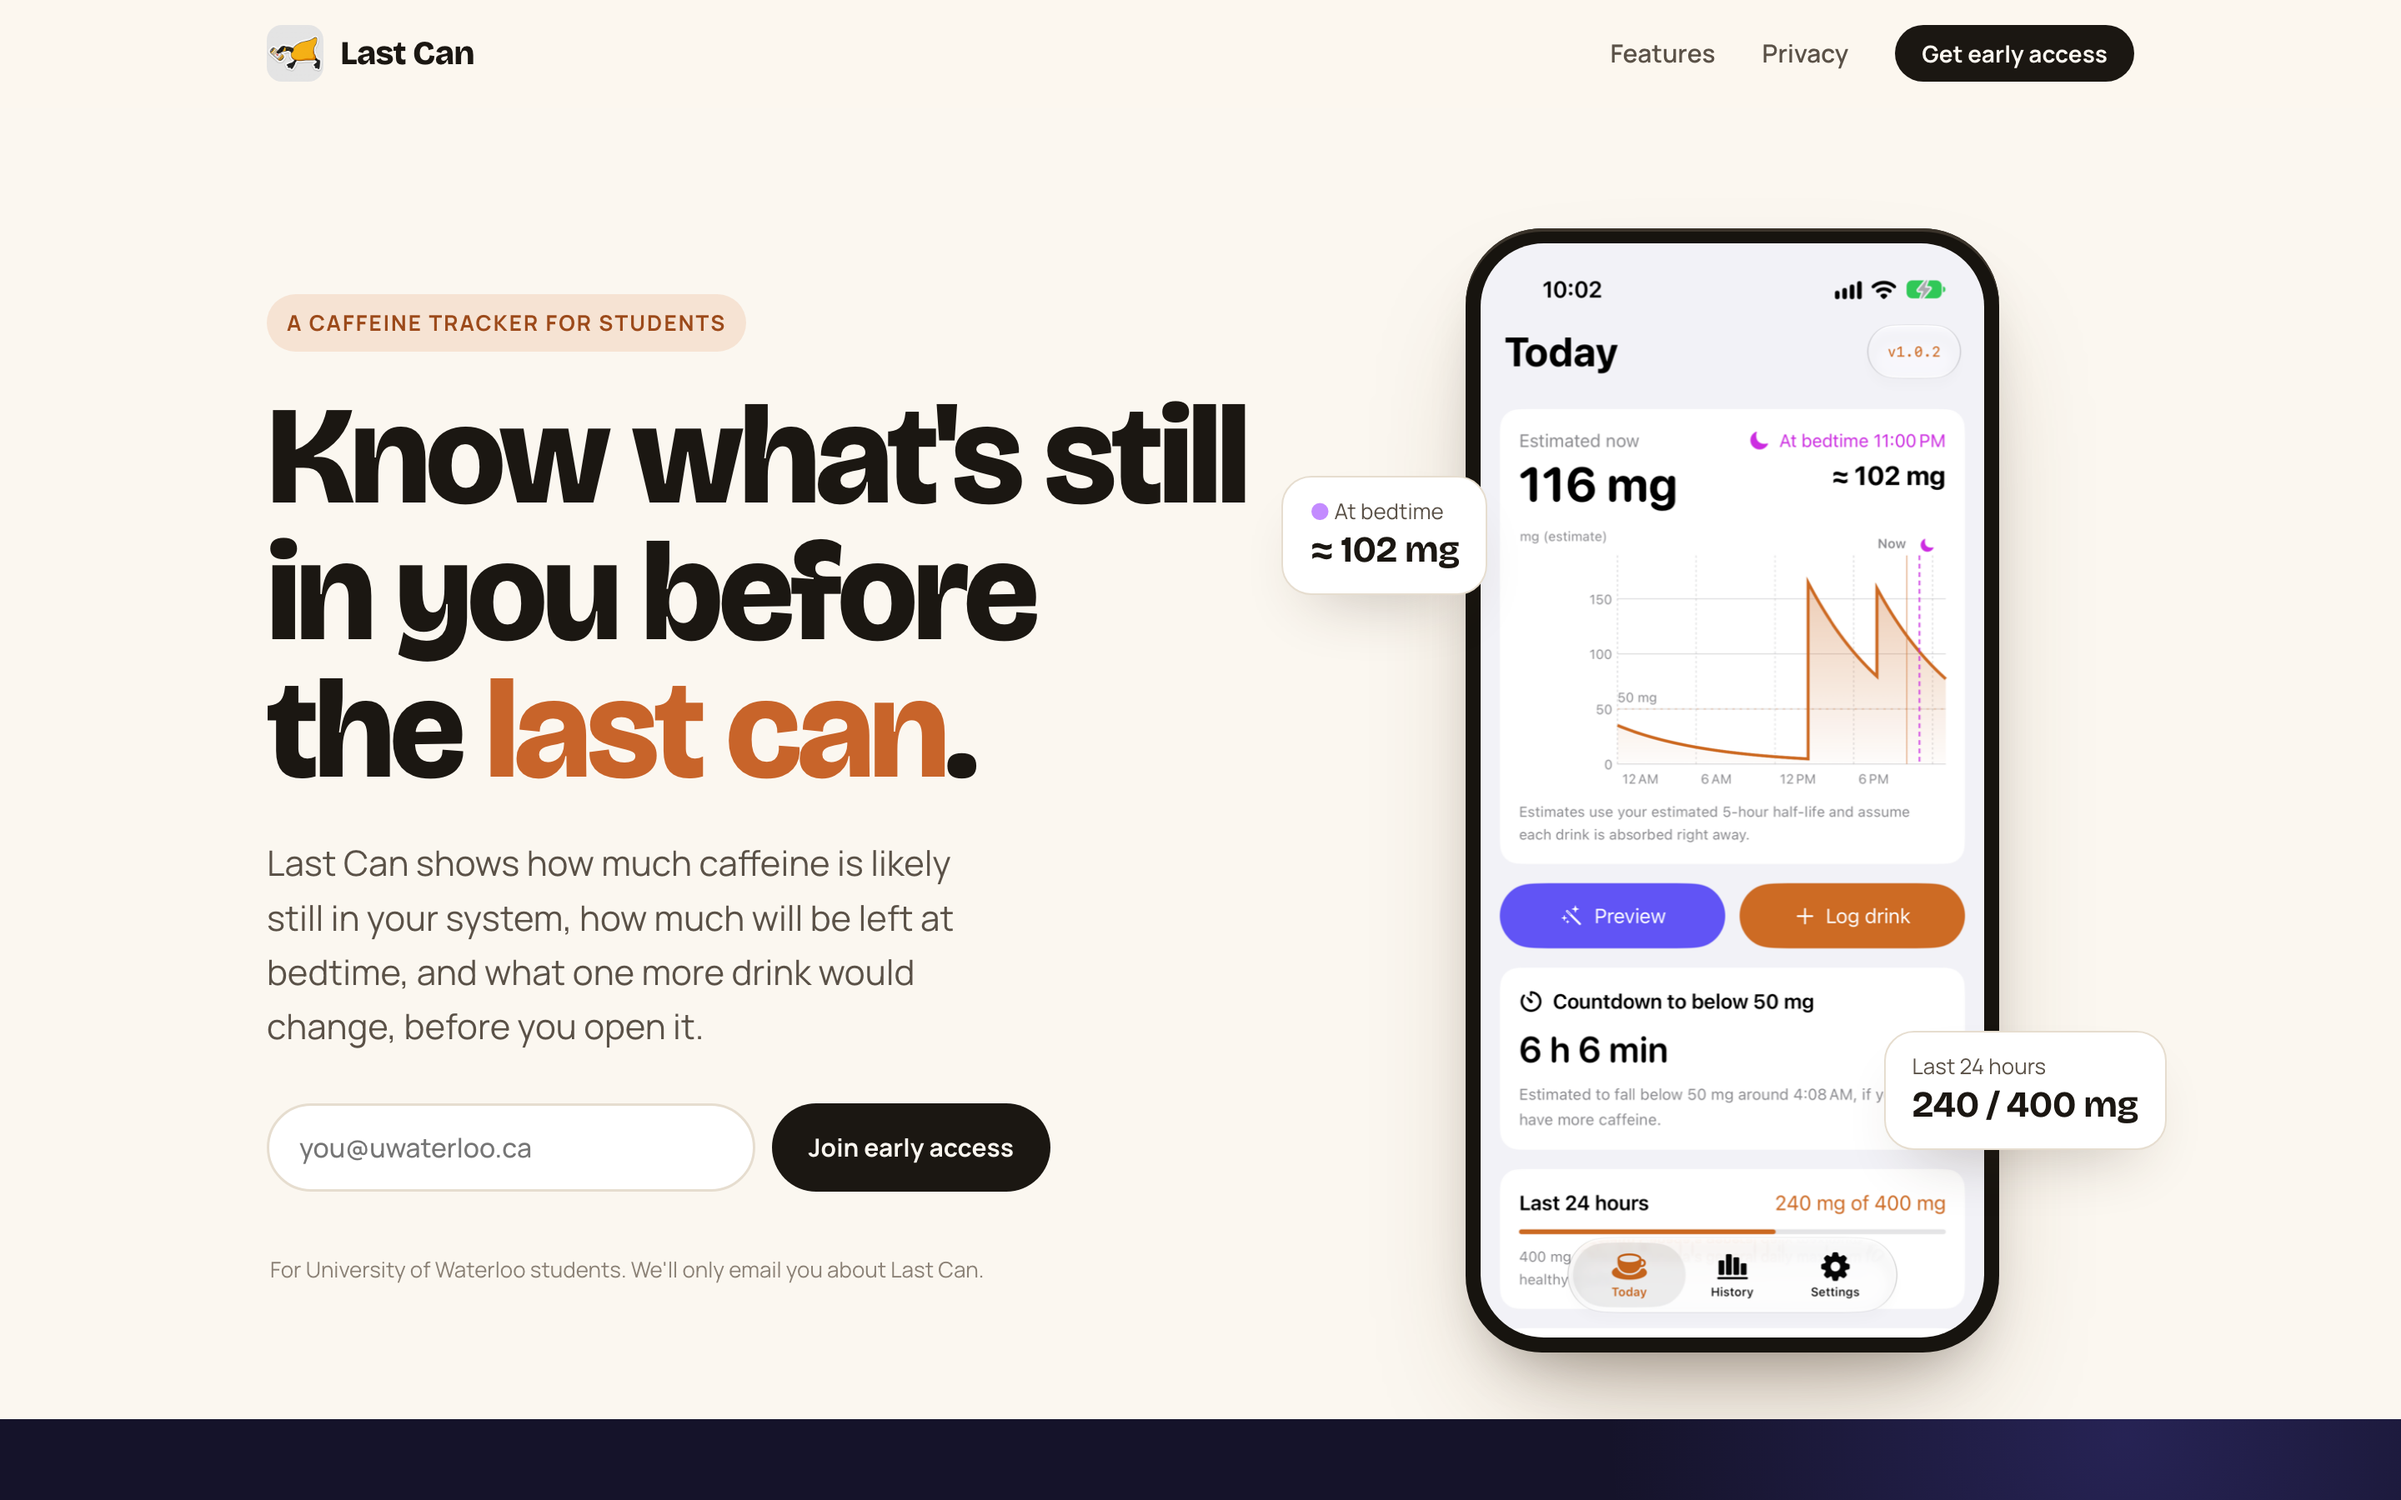
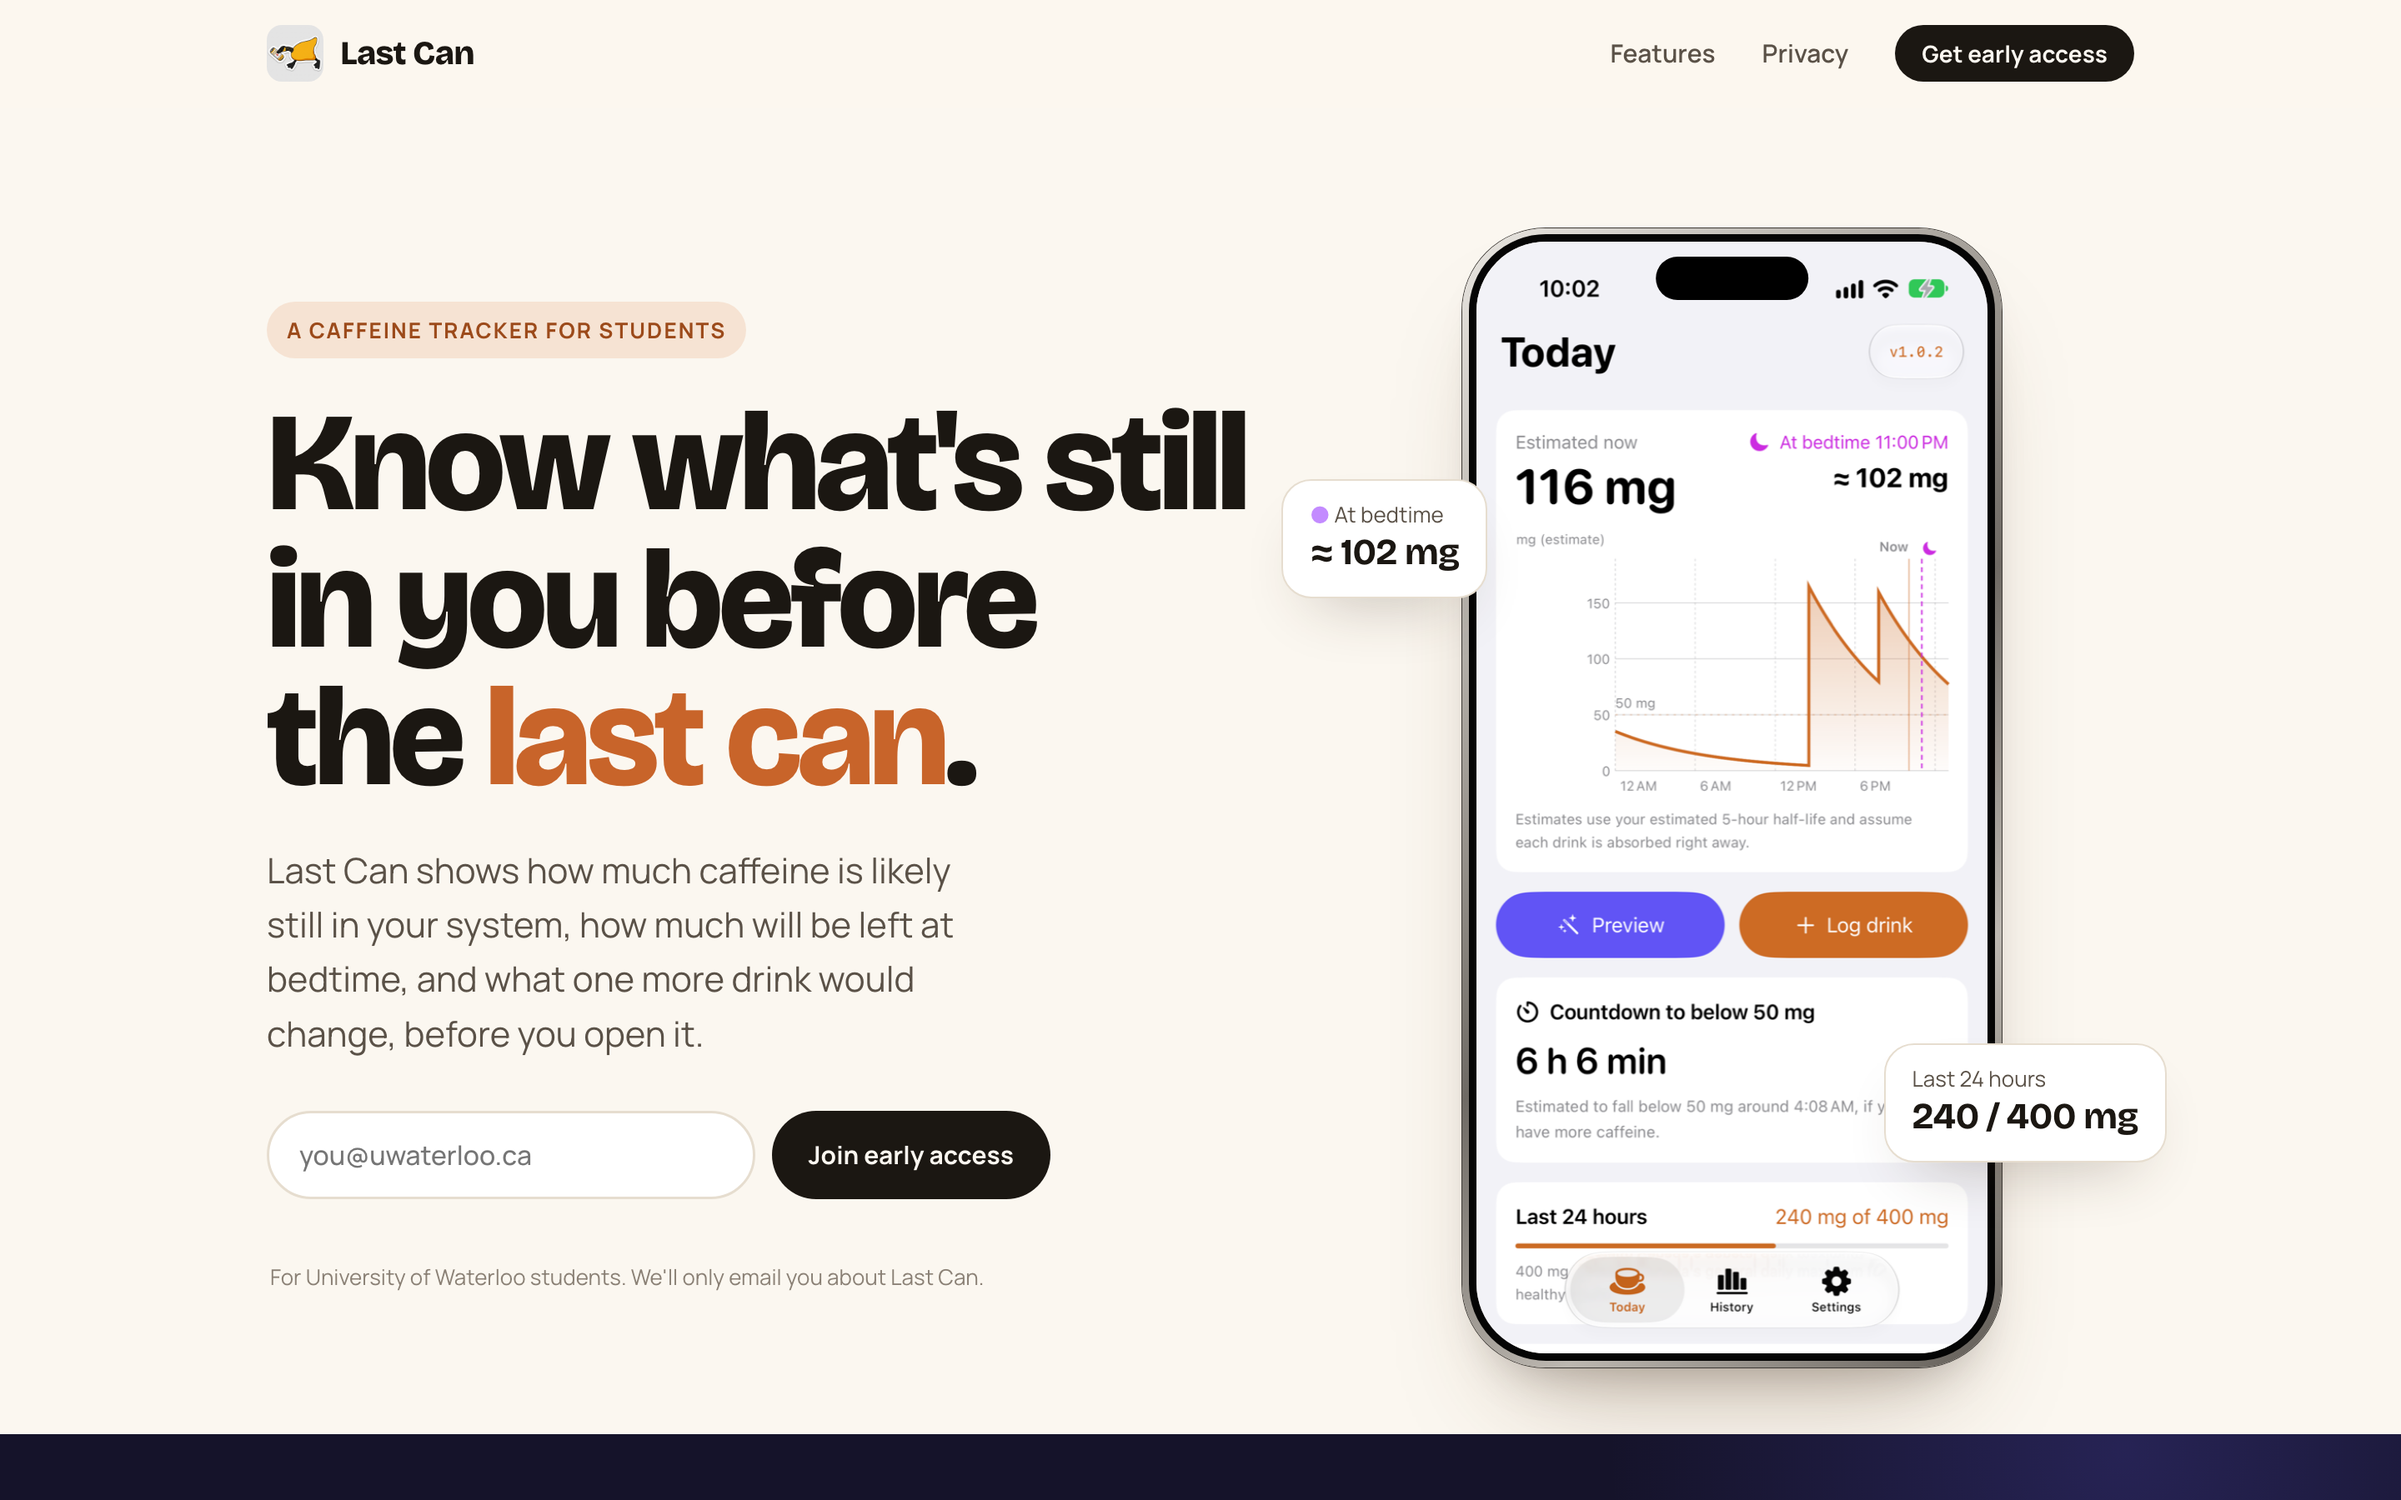
Use a thinner, better-fitting phone frame in the README and website
Slim black border and metal edge, screenshots shown uncropped, and the
camera cutout aligned with the status bar. Re-renders the README
mockups, the link preview image and the page section images.

diff --git a/Design/readme-mockups/mockup.html b/Design/readme-mockups/mockup.html
@@ -3,7 +3,9 @@
   Renders README device mockups. Open with a query string and screenshot with headless Chrome, e.g.
     mockup.html?layout=single&shot=today
     mockup.html?layout=hero
-  Screens are read from ../../product page/screenshots/last-can-<shot>.png.
+  Screens are read from ../../product page/screenshots/last-can-<shot>.png (1260 x 2736).
+  The frame is drawn here (no third-party device artwork): a thin metal band, a slim black
+  border and a camera cutout placed where the screenshots' status bar expects it.
 -->
 <html lang="en">
 <head>
@@ -12,65 +14,56 @@
   :root { --w: 360px; }
   * { box-sizing: border-box; }
   html, body { margin: 0; background: transparent; }
-  body { display: inline-block; padding: 70px 80px 110px; }
+  body { display: inline-block; padding: 60px 70px 100px; }
 
+  /* --w is the screen width; the frame adds a slim border around it so the screenshot is never cropped */
   .device {
+    --edge: calc(var(--w) * 0.012);
+    --border: calc(var(--w) * 0.016);
+    --radius: calc(var(--w) * 0.135);
     position: relative;
-    width: var(--w);
-    aspect-ratio: 1260 / 2736;
-    border-radius: calc(var(--w) * 0.155);
-    padding: calc(var(--w) * 0.022);
-    /* brushed metal edge: light at the top-left, darker at the bottom-right */
-    background:
-      linear-gradient(145deg, #f4f2ef 0%, #c9c5bf 22%, #8f8a83 48%, #d7d3cd 70%, #77726b 100%);
+    width: calc(var(--w) + 2 * (var(--edge) + var(--border)));
+    padding: var(--edge);
+    border-radius: calc(var(--radius) + var(--edge) + var(--border));
+    background: linear-gradient(135deg, #e9e6e1 0%, #a9a49d 30%, #6f6a64 52%, #bdb8b1 74%, #5f5a54 100%);
     box-shadow:
-      0 0 0 1px #5d5853,
-      0 2px 1px -1px #ffffffaa inset,
-      0 60px 80px -40px #3d2a1866,
-      0 30px 40px -24px #2a1d1240,
-      0 8px 14px -8px #00000040;
-  }
-  /* inner ring that reads as the polished chamfer */
-  .device::before {
-    content: ""; position: absolute; inset: calc(var(--w) * 0.008);
-    border-radius: calc(var(--w) * 0.148);
-    box-shadow: 0 0 0 1px #ffffff55 inset, 0 0 0 2px #00000030;
-    pointer-events: none;
+      0 0 0 0.5px #3e3a36,
+      0 50px 70px -36px #3d2a1859,
+      0 24px 34px -22px #2a1d1240,
+      0 6px 10px -6px #00000038;
   }
   .bezel {
-    position: relative; width: 100%; height: 100%;
-    background: #070707; border-radius: calc(var(--w) * 0.135);
-    padding: calc(var(--w) * 0.024);
-    box-shadow: 0 0 0 1px #000 inset;
+    position: relative;
+    padding: var(--border);
+    border-radius: calc(var(--radius) + var(--border));
+    background: #050505;
+    box-shadow: 0 0 0 0.5px #ffffff40;
   }
   .screen {
-    position: relative; width: 100%; height: 100%; overflow: hidden;
-    border-radius: calc(var(--w) * 0.112);
+    position: relative; overflow: hidden;
+    width: var(--w); aspect-ratio: 1260 / 2736;
+    border-radius: var(--radius);
     background: #fff;
   }
-  .screen img { width: 100%; height: 100%; object-fit: cover; display: block; }
-  /* camera cutout */
-  .screen::before {
-    content: ""; position: absolute; z-index: 2; top: 1.35%; left: 50%; transform: translateX(-50%);
-    width: 31%; height: 3.4%; border-radius: 999px; background: #050505;
+  .screen img { width: 100%; height: 100%; display: block; }
+  /* camera cutout, matched to where the status bar leaves room for it */
+  .island {
+    position: absolute; z-index: 2; top: 1.25%; left: 50%; transform: translateX(-50%);
+    width: 30%; height: 3.95%; border-radius: 999px; background: #000;
   }
-  .screen::after {
-    content: ""; position: absolute; z-index: 3; top: calc(1.35% + 0.9%); left: calc(50% + 9%);
-    width: 1.9%; aspect-ratio: 1; border-radius: 50%;
-    background: radial-gradient(circle at 35% 35%, #2f3a55 0%, #0c0f18 60%);
+  .island::after {
+    content: ""; position: absolute; right: 14%; top: 50%; transform: translateY(-50%);
+    height: 34%; aspect-ratio: 1; border-radius: 50%;
+    background: radial-gradient(circle at 35% 35%, #26304a 0%, #07090f 65%);
   }
-  /* soft glass reflection */
-  .glare {
-    position: absolute; inset: 0; border-radius: inherit; pointer-events: none; z-index: 4;
-    background: linear-gradient(115deg, #ffffff1f 0%, #ffffff08 28%, transparent 42%);
-  }
-  .btn { position: absolute; background: linear-gradient(90deg, #6d6862, #b9b4ad 45%, #7c776f); border-radius: 3px; }
-  .btn.l { left: -3px; width: 4px; }
-  .btn.r { right: -3px; width: 4px; }
-  .btn.action { top: 17%; height: 5%; }
-  .btn.up { top: 25%; height: 8.5%; }
-  .btn.down { top: 35.5%; height: 8.5%; }
-  .btn.power { top: 27%; height: 13%; }
+  .btn { position: absolute; width: calc(var(--edge) * 0.9); border-radius: 2px;
+    background: linear-gradient(90deg, #5f5a54, #b3aea7 50%, #6a655f); }
+  .btn.l { left: calc(var(--edge) * -0.7); }
+  .btn.r { right: calc(var(--edge) * -0.7); }
+  .btn.action { top: 18%; height: 4.2%; }
+  .btn.up { top: 25%; height: 7.5%; }
+  .btn.down { top: 34%; height: 7.5%; }
+  .btn.power { top: 27%; height: 11.5%; }
 
   /* hero: three devices on a warm card */
   .hero {
@@ -79,9 +72,9 @@
   }
   .hero .glow { position: absolute; width: 900px; height: 900px; left: 300px; top: 160px; border-radius: 50%;
     background: radial-gradient(closest-side, #ffffffcc, transparent); }
-  .hero .device { position: absolute; --w: 330px; }
-  .hero .d1 { left: 250px; top: 150px; transform: rotate(-7deg); }
-  .hero .d2 { left: 585px; top: 70px; --w: 340px; z-index: 2; }
+  .hero .device { position: absolute; --w: 320px; }
+  .hero .d1 { left: 255px; top: 150px; transform: rotate(-7deg); }
+  .hero .d2 { left: 585px; top: 70px; --w: 330px; z-index: 2; }
   .hero .d3 { left: 920px; top: 150px; transform: rotate(7deg); }
   body.hero-body { padding: 0; }
 </style>
@@ -93,7 +86,7 @@
   const device = (shot, cls = "") => `
     <div class="device ${cls}">
       <span class="btn l action"></span><span class="btn l up"></span><span class="btn l down"></span><span class="btn r power"></span>
-      <div class="bezel"><div class="screen"><img src="${src(shot)}" alt=""><div class="glare"></div></div></div>
+      <div class="bezel"><div class="screen"><img src="${src(shot)}" alt=""><span class="island"></span></div></div>
     </div>`;
   if (params.get("layout") === "hero") {
     document.body.classList.add("hero-body");

diff --git a/product page/index.html b/product page/index.html
@@ -112,12 +112,26 @@
     .form-status.err { color: #b4361f; }
 
     .hero-visual { position: relative; display: flex; justify-content: center; }
+    /* --w is the screen width; a thin metal edge and slim black border wrap it without cropping the screenshot */
     .phone {
-      width: min(320px, 78vw); padding: 9px; border-radius: 46px;
-      background: #17140f;
-      box-shadow: 0 2px 0 #3a332a inset, 0 40px 80px -30px #5a3a1c66, 0 18px 36px -18px #0005;
+      --w: min(306px, 74vw);
+      position: relative;
+      width: calc(var(--w) * 1.056); padding: calc(var(--w) * 0.012);
+      border-radius: calc(var(--w) * 0.163);
+      background: linear-gradient(135deg, #e9e6e1 0%, #a9a49d 30%, #6f6a64 52%, #bdb8b1 74%, #5f5a54 100%);
+      box-shadow: 0 0 0 0.5px #3e3a36, 0 40px 70px -34px #5a3a1c66, 0 18px 30px -18px #0004;
     }
-    .phone img { border-radius: 38px; width: 100%; height: auto; }
+    .phone img {
+      width: 100%; height: auto;
+      border: calc(var(--w) * 0.016) solid #050505;
+      border-radius: calc(var(--w) * 0.151);
+    }
+    /* camera cutout, placed where the screenshots' status bar leaves room for it */
+    .phone::after {
+      content: ""; position: absolute; left: 50%; transform: translateX(-50%);
+      top: calc(var(--w) * 0.055); width: calc(var(--w) * 0.30); height: calc(var(--w) * 0.086);
+      border-radius: 999px; background: #000;
+    }
     .chip {
       position: absolute; background: #fff; border: 1px solid var(--line);
       border-radius: 18px; padding: 12px 16px; box-shadow: 0 18px 40px -20px #3b2a1a55;
